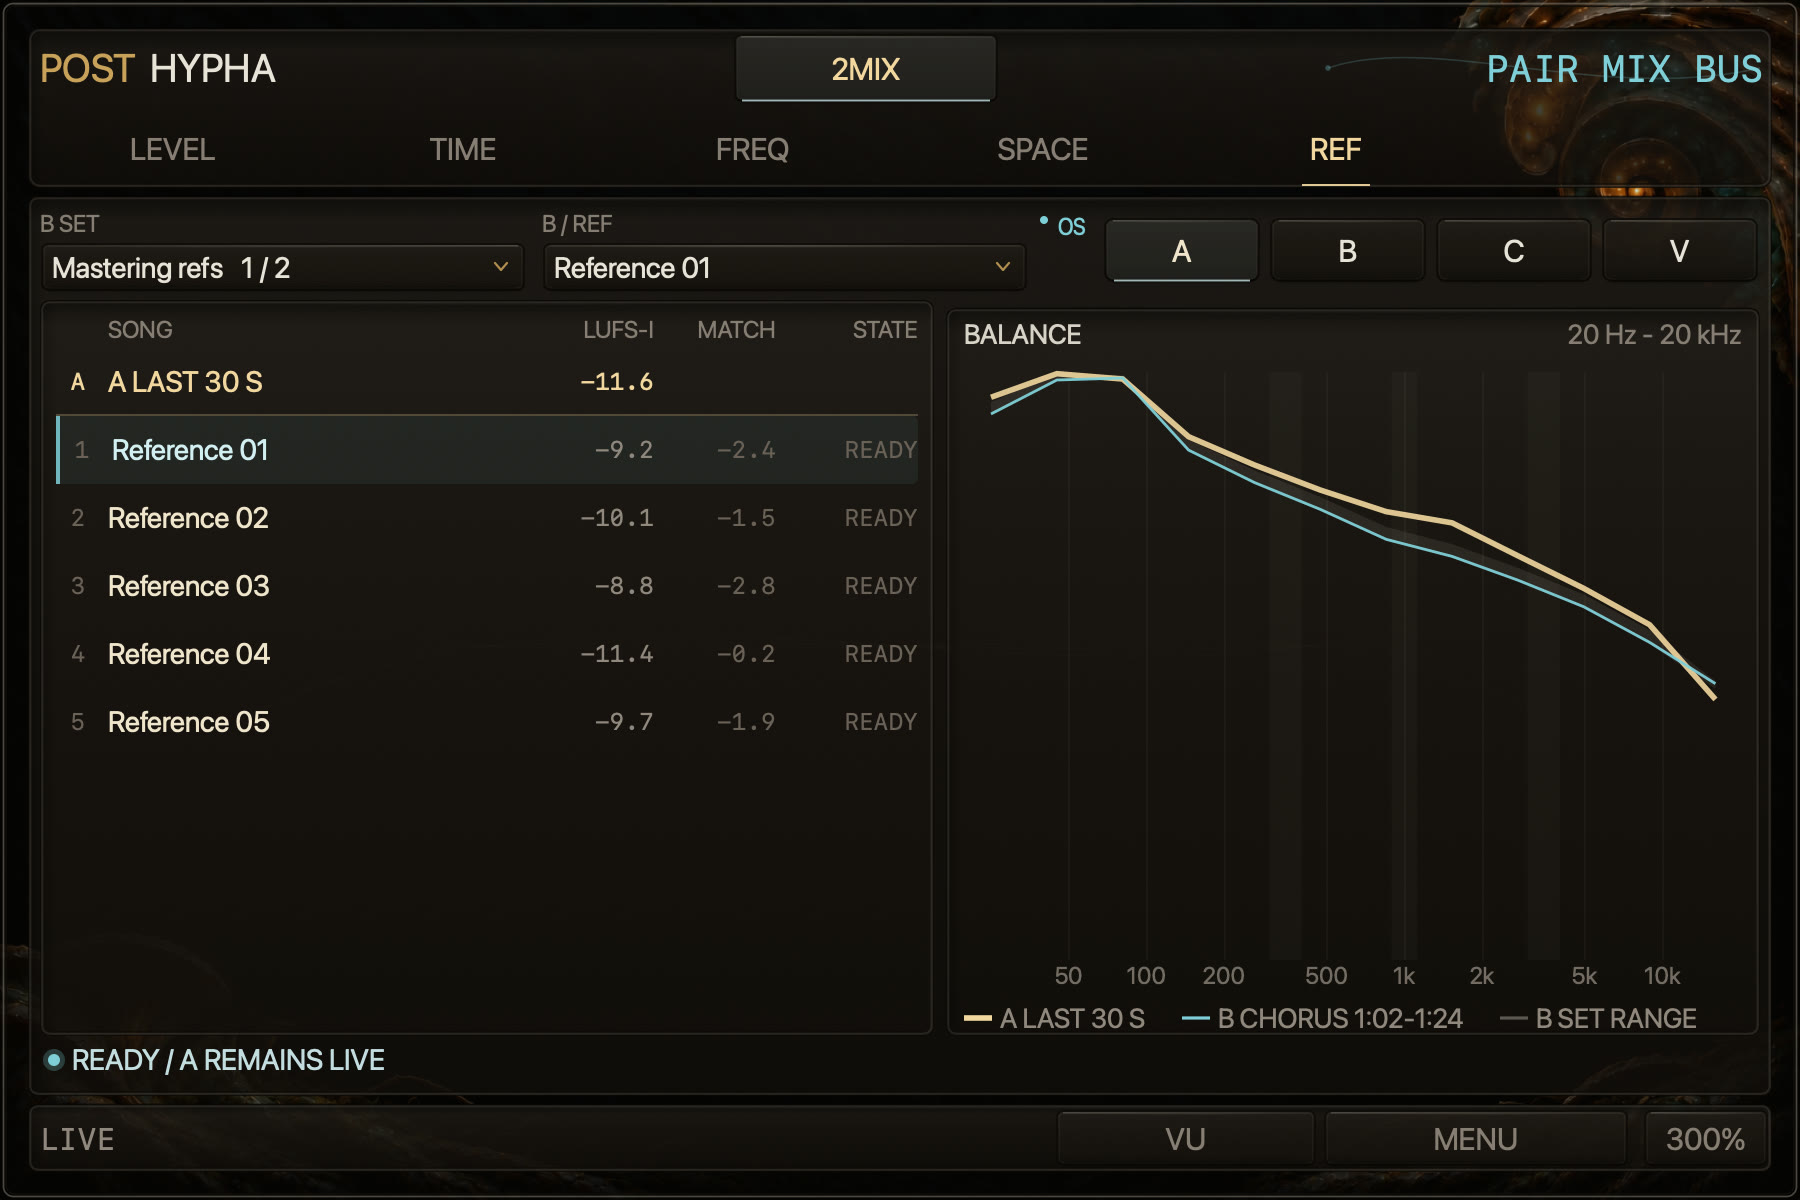
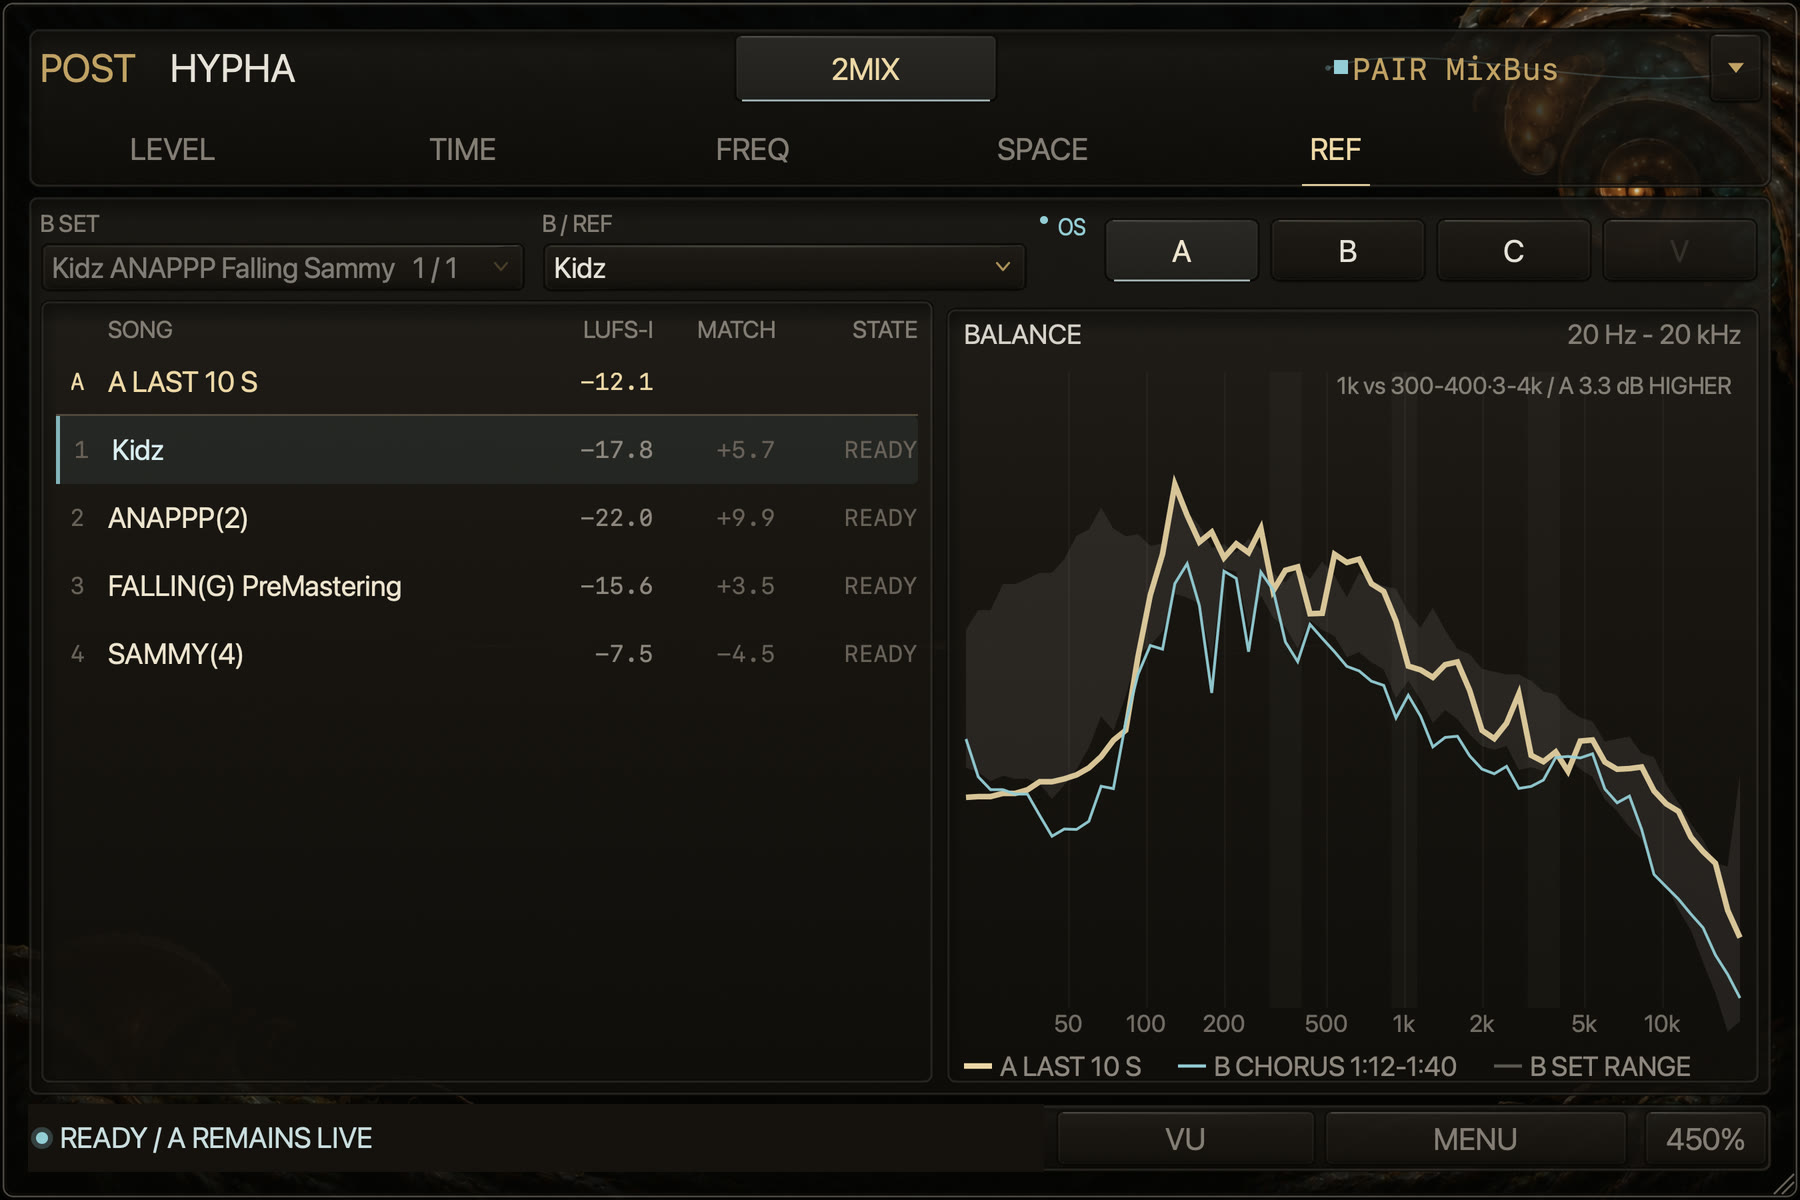
[B-1545] READMEのReference B・Cの画像を、Kirin OSの参照曲で実際に測った画面に替える
Bは4曲の参照曲のセットとAの直近10秒、Cは30秒のCueとAの直近30秒の4帯の差を、出荷したプラグインの英語の画面（450%）で撮影し、1800×1200に縮めた。値・線は描き直していない。
Bの説明文はAの直近30秒としていたので、画面とREADMEの本文に合わせて直近10秒に直す。Vの画像はまだ作り物のデータのまま。

diff --git a/README.md b/README.md
@@ -103,7 +103,7 @@ which one was PRE and which was POST.
 </tr>
 <tr>
 <td width="50%" valign="top">
-<img src="docs/media/readme/ref_c.jpg" alt="Reference C: your mix and a reference cue on the same spectrum, with four-band differences and the cue timeline">
+<img src="docs/media/readme/ref_c.jpg" alt="Reference C: the last 30 seconds of your mix and a 30-second reference cue on the same spectrum, with four-band differences and the cue timeline">
 <br><b>Your mix beside your references</b> · Reference A · B · C · V (with Kirin OS)<br>
 Compare your mix (A) with ranked reference songs (B), a check on a reference cue (C) or another
 version of the same song (V), at the same level and with the same spectrum definition.
@@ -884,7 +884,7 @@ Kirin OS automatically publishes its saved Reference library to POST; there is n
 connect. A small OS indicator reports the connection; received settings remain visible when media is unavailable. Hypha does not substitute
 its own Factory library.
 
-![Reference B: the last 30 seconds of your mix (A) beside a ranked set of reference songs, with level match and spectral balance](docs/media/readme/ref_b.jpg)
+![Reference B: the last 10 seconds of your mix (A) beside a ranked set of four reference songs, with level match and spectral balance](docs/media/readme/ref_b.jpg)
 
 Reference has four roles, each with its own button in the same place at every size: **A B C V**.
 
